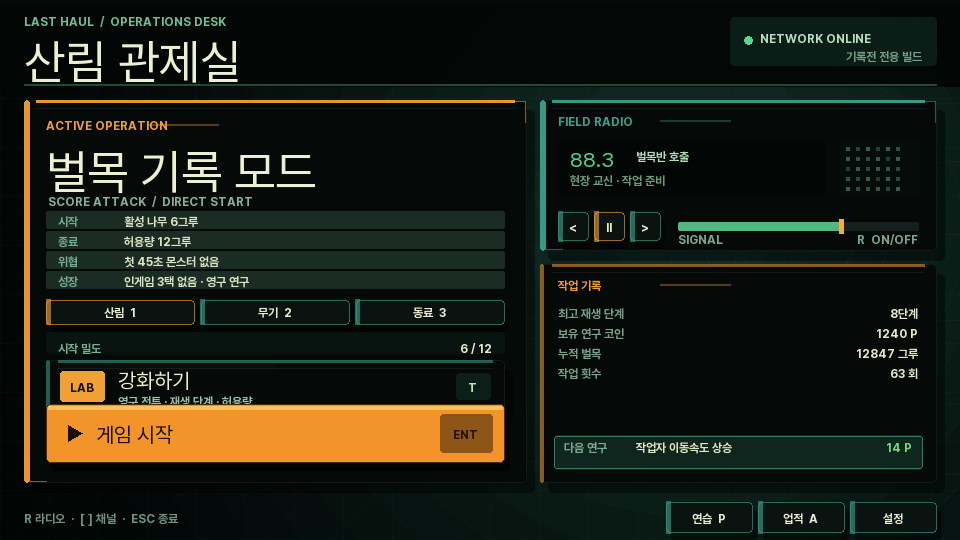
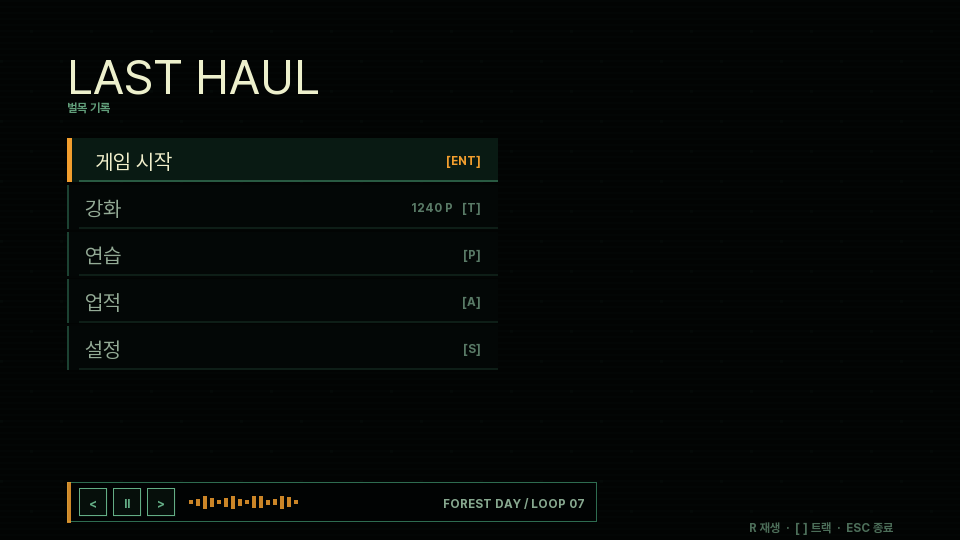
fix: 로비를 최소 픽셀 메뉴로 정리

diff --git a/docs/FRONTEND_UI_REDESIGN.md b/docs/FRONTEND_UI_REDESIGN.md
@@ -25,10 +25,10 @@
 4. 선택 항목은 밝기 변화만 주지 않는다. 3~5px 상태 레일, 테두리, 텍스트 대비가 함께 바뀐다.
 5. 버튼은 hover 시 3px 상승하고 외곽 대비가 증가한다. 키보드 입력 표시는 별도 키캡으로 둔다.
 6. 1280×720을 주 화면으로 사용하되 960×540에서도 정보가 겹치거나 화면 밖으로 잘리지 않아야 한다.
-7. 화면 역할에 따라 실제 게임 아트 또는 반응형 관제 UI를 사용한다. 현재 활성 로비는 고정 배경 이미지 대신 격자·신호 파동이 반응하는 관제 작업면을 쓴다.
+7. 화면 역할에 따라 실제 게임 아트 또는 반응형 UI를 사용한다. 현재 활성 로비는 고정 배경 이미지 없이 저대비 픽셀 작업면을 쓴다.
 8. 메뉴 문구는 기능·대상·수치만 짧게 말한다. 분위기를 만들기 위한 명령문, 광고 문구, 과장된 세계관 설명을 쓰지 않는다. `온대림 1구역`, `할당량 60그루`, `작업 준비`처럼 구체적으로 쓴다.
 
-현재 활성 로비는 배경 그림 한 장에 메뉴를 얹지 않는다. 화면 전체를 반응형 산림 관제 데스크로 구성하고, 작업 규칙·산림/무기/동료 진단·기록·다음 연구를 실제 저장 데이터와 함께 배치한다. 현장 라디오는 이전/재생·정지/다음/신호 조절이 가능한 위젯이며 `R`, `[`, `]` 단축키를 지원한다. 보존된 캠페인용 배경 자산은 삭제하지 않는다.
+현재 활성 로비는 배경 그림 한 장에 메뉴를 얹지 않는다. `게임 시작·강화·연습·업적·설정`만 세로 메뉴로 두고, 선택 상태는 픽셀 레일과 한 단계의 색 변화로만 표시한다. 관제 패널·상태 카드·진단 탭 같은 장식성 정보 구조는 사용하지 않는다. 이전 배경 화면의 왼쪽 아래 오디오 바 감각은 작은 픽셀 플레이어로 보존하며, 이전/재생·정지/다음과 `R`, `[`, `]` 단축키를 지원한다. 보존된 캠페인용 배경 자산은 삭제하지 않는다.
 
 ## 화면 흐름
 
